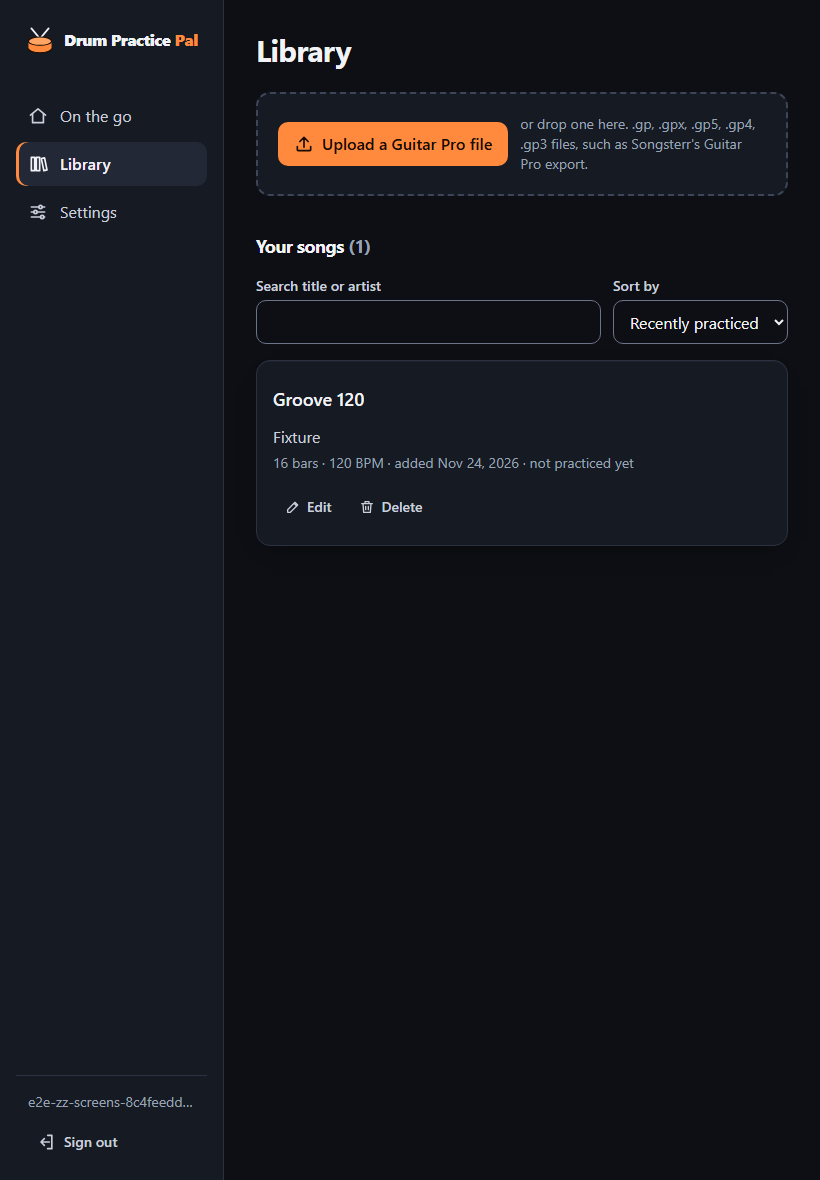
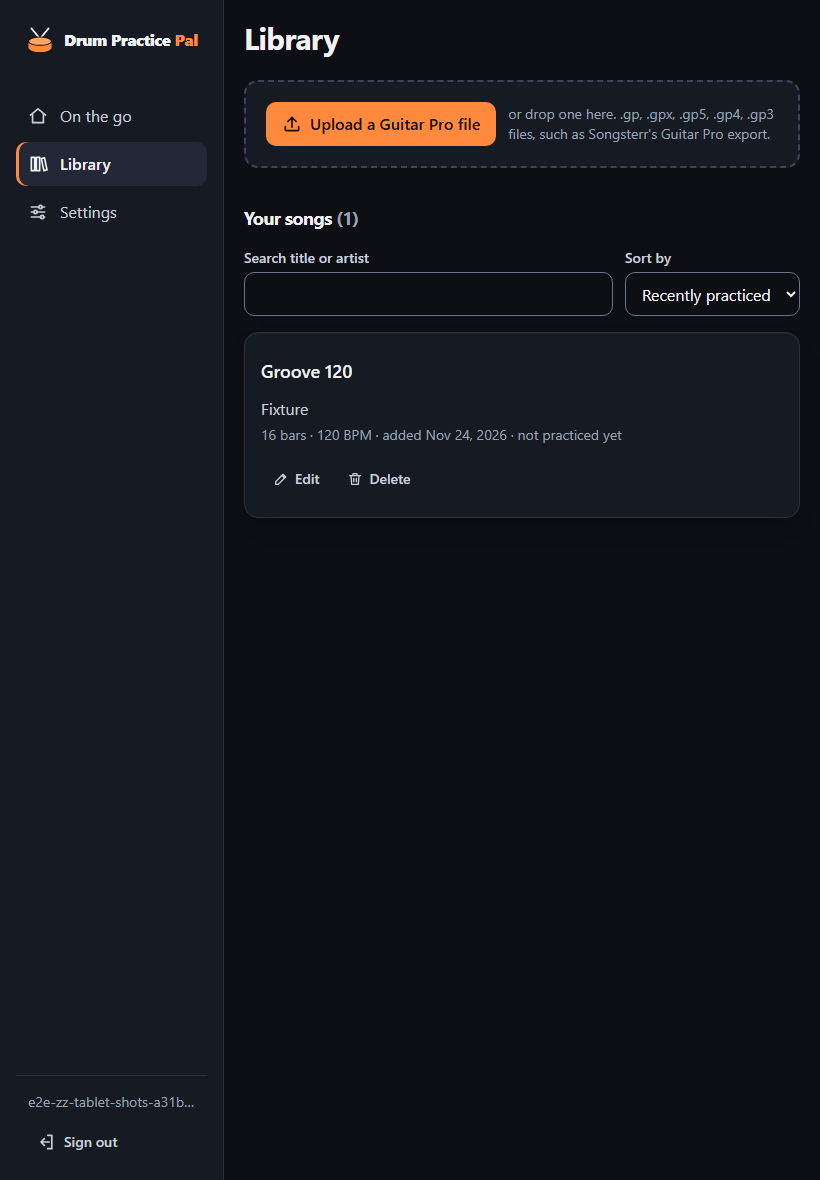
unit 12: narrower tablet gutter, two bars a line
The page's side gutter from md is the token --spacing-gutter: 1.25rem below
lg, 2rem from lg. At 820 px the score is 556 px wide, past alphaTab's 554 px
threshold for two bars a line (measured). The tablet sheet follows the token.

diff --git a/tests/e2e/loop-scroll.spec.ts b/tests/e2e/loop-scroll.spec.ts
@@ -448,13 +448,21 @@ test('with a count-in before every repeat, the score box is scrolled back at the
   page,
 }, testInfo) => {
   test.setTimeout(90_000);
-  const lastBar = { phone: 6, tablet: 12, desktop: 12 }[testInfo.project.name];
-  if (!lastBar) throw new Error(`No loop for project ${testInfo.project.name}`);
+  // A loop whose first bar the box leaves behind by its last. On a tablet in portrait, two
+  // bars a line, the whole song is barely taller than the box: only a loop from bar 2 to the
+  // end scrolls its first bar out.
+  const bars = {
+    phone: { firstBar: 5, lastBar: 6 },
+    tablet: { firstBar: 2, lastBar: 16 },
+    desktop: { firstBar: 5, lastBar: 12 },
+  }[testInfo.project.name];
+  if (!bars) throw new Error(`No loop for project ${testInfo.project.name}`);
+  const { firstBar, lastBar } = bars;
   await openFixture(page, user, 'groove-120', 'Groove 120');
   await countInSelect(page).selectOption('2 bars');
   await countInModeSelect(page).selectOption('Before every loop repeat');
   await speedSlider(page).fill('200');
-  await saveNewLoop(page, { name: 'Round', firstBar: 5, lastBar });
+  await saveNewLoop(page, { name: 'Round', firstBar, lastBar });
   if (expectedLoopPanel(page) === 'sheet') await closeLoopPanel(page);
   await recordStatuses(page);
   await playButton(page).click();
@@ -466,7 +474,9 @@ test('with a count-in before every repeat, the score box is scrolled back at the
   // The repeat's count-in (two seconds here) has the first bar back from its start: read ten
   // times over its first second, with the status and the boxes taken in the same instant, so
   // a scroll that only came once playback started again would not count.
-  await expect(status(page)).toHaveText('Bar 5 of 16 · Counting in…', { timeout: 10_000 });
+  await expect(status(page)).toHaveText(`Bar ${firstBar} of 16 · Counting in…`, {
+    timeout: 10_000,
+  });
   const reads: string[] = [];
   for (let read = 0; read < 10; read++) {
     reads.push(await loopStartDuringCountIn(page));

diff --git a/src/features/loops/LoopPanel.tsx b/src/features/loops/LoopPanel.tsx
@@ -101,9 +101,9 @@ export function LoopPanel({
       data-testid="loop-panel"
       // Phone: fixed just above the tab bar (3.5rem plus its border). Tablet in
       // portrait (md): no tab bar, so on the safe area, and as wide as the content
-      // column to the right of the sidebar (its 2rem padding each side), not under
+      // column to the right of the sidebar (the page's gutter each side), not under
       // it. From lg: a column beside the score that stays put while the page scrolls.
-      className={`fixed inset-x-0 bottom-[calc(3.5rem+1px+env(safe-area-inset-bottom))] z-10 rounded-t-card border-t border-line bg-surface shadow-sheet md:right-8 md:bottom-[env(safe-area-inset-bottom)] md:left-[calc(var(--spacing-sidebar)+2rem)] md:border-x lg:sticky lg:inset-x-auto lg:top-20 lg:bottom-auto lg:z-auto lg:max-h-[calc(100dvh-6rem)] lg:w-80 lg:shrink-0 lg:self-start lg:overflow-y-auto lg:rounded-card lg:border lg:shadow-card ${
+      className={`fixed inset-x-0 bottom-[calc(3.5rem+1px+env(safe-area-inset-bottom))] z-10 rounded-t-card border-t border-line bg-surface shadow-sheet md:right-gutter md:bottom-[env(safe-area-inset-bottom)] md:left-[calc(var(--spacing-sidebar)+var(--spacing-gutter))] md:border-x lg:sticky lg:inset-x-auto lg:top-20 lg:bottom-auto lg:z-auto lg:max-h-[calc(100dvh-6rem)] lg:w-80 lg:shrink-0 lg:self-start lg:overflow-y-auto lg:rounded-card lg:border lg:shadow-card ${
         open ? '' : 'lg:hidden'
       }`}
     >

diff --git a/tests/e2e/loops.spec.ts b/tests/e2e/loops.spec.ts
@@ -566,6 +566,21 @@ test('the loop panel is a bottom sheet on a phone and a tablet in portrait, and 
   }
 });
 
+test('on a tablet in portrait the score fits two bars a line', async ({ user, page }, testInfo) => {
+  test.skip(testInfo.project.name !== 'tablet', 'the gutter at md is what this measures');
+  await openFixture(page, user, 'groove-120', 'Groove 120');
+  // Bars 2 to 15: bar 1 has the clef, time and tempo and sits alone, as can the last bar.
+  await saveNewLoop(page, { name: 'Middle', firstBar: 2, lastBar: 15 });
+  await closeLoopPanel(page);
+  // One highlight block per line of music the loop touches: 14 bars, two a line.
+  await expect
+    .poll(async () => new Set((await highlightBoxes(page)).map((box) => Math.round(box.y))).size)
+    .toBe(7);
+  expect(await page.evaluate(() => document.documentElement.scrollWidth - window.innerWidth)).toBe(
+    0,
+  );
+});
+
 test('a loop across the tempo change opens on another device with BPM from its first bar, and keeps it past the change', async ({
   user,
   page,

diff --git a/src/index.css b/src/index.css
@@ -82,6 +82,13 @@
   --spacing-touch: 2.75rem;
   /* The sidebar's width from md; the tablet's loop sheet starts to the right of it. */
   --spacing-sidebar: 14rem;
+  /*
+   * The page's side gutter from md (below md it is p-4). 1.25rem on a tablet in
+   * portrait: at 820 px it leaves the score 556 px, and alphaTab puts two bars a
+   * line from 554 (measured; 2rem left 532, one bar a line). 2rem again from lg,
+   * below, where the score has room either way.
+   */
+  --spacing-gutter: 1.25rem;
 
   /* Radius and shadow. */
   --radius-control: 0.625rem;
@@ -109,6 +116,13 @@
     to {
       opacity: 1;
     }
+  }
+}
+
+/* The gutter's lg value: a token whose value follows the width, so its users need no lg: copy. */
+:root {
+  @variant lg {
+    --spacing-gutter: 2rem;
   }
 }
 

diff --git a/src/features/song/SongPage.tsx b/src/features/song/SongPage.tsx
@@ -423,7 +423,7 @@ function JamBar({
     <div
       ref={ref}
       data-testid="jam-bar"
-      className="sticky top-0 z-10 -mx-4 flex flex-wrap items-center justify-between gap-x-4 gap-y-2 border-b border-line bg-canvas px-4 pb-2 pt-[max(0.5rem,env(safe-area-inset-top))] md:-mx-8 md:px-8"
+      className="sticky top-0 z-10 -mx-4 flex flex-wrap items-center justify-between gap-x-4 gap-y-2 border-b border-line bg-canvas px-4 pb-2 pt-[max(0.5rem,env(safe-area-inset-top))] md:-mx-gutter md:px-gutter"
     >
       <JamReadout speedRatio={snapshot.speedRatio} tempo={tempo} />
       <PlayPauseButton player={player} snapshot={snapshot} />

diff --git a/src/features/shell/AppShell.tsx b/src/features/shell/AppShell.tsx
@@ -42,7 +42,7 @@ export function AppShell() {
 
       {/* Bottom padding keeps content clear of the fixed tab bar and the iOS home indicator.
           min-w-0 lets main shrink below a wide child (alphaTab's rendered score) when the window narrows. */}
-      <main className="mx-auto w-full min-w-0 max-w-5xl p-4 pb-[calc(5rem+env(safe-area-inset-bottom))] md:p-8">
+      <main className="mx-auto w-full min-w-0 max-w-5xl p-4 pb-[calc(5rem+env(safe-area-inset-bottom))] md:p-gutter">
         <OfflineBanner />
         <Outlet />
       </main>

diff --git a/AGENTS.md b/AGENTS.md
@@ -162,7 +162,7 @@ docs/
 - Never send alphaTab a tick outside its playback range: go through `seekToBar`, which picks the bar's playthrough inside the range (`startTickOfBarWithin` in `barTicks.ts`) or refuses. What the engine adds to the score element (the highlight layer) is taken away in `destroy()`, so a render that finishes late can't put it back.
 - Repeats: `tests/fixtures/gp/repeats.gp` plays bars 3 and 4 twice. `playedBars(score)` in `tests/unit/score-helpers.ts` gives a real score's bars in play order; `barsInPlayOrder([...])` and `finishLoading({ bars })` do the same for the fake engine. A range runs from the first playthrough of its start bar to the next time its end bar plays.
 - Engine DOM work: `createAlphaTabEngine` only wires things up. What listens to or draws on the score is a function of its own in `alphaTabEngine.ts` that takes the element and a `staffSystems()` getter for alphaTab's current bounds (`watchScorePointer`, `createHighlightLayer`, `scrollBoxToBar`); the maths stays in the pure modules. Add the next such piece the same way, not inline in the factory.
-- UI: `LoopPanel` is one component with one `open` state (`useLoopPanelOpen`). Where it goes is `loopPanelLayout.ts` (pure: `loopPanelKindForWidth`, `LOOP_COLUMN_MIN_WIDTH` 1024, `LOOP_COLUMN_QUERY`), which is the stylesheet's `lg` (`--breakpoint-lg` is written out in `index.css`, and `loopPanelLayout.test.ts` keeps the two equal): below `lg` (a phone, a tablet in portrait) a bottom sheet whose header is its one toggle, starting closed; from `lg` a column beside the score toggled by "Show loops" / "Hide loops" next to the status line (`max-lg:hidden`), starting open. It is a separate breakpoint from the player's page/horizontal layout (768 px, `md`): a tablet in portrait has page layout and the sheet. On a phone the sheet sits above the tab bar (`bottom-[calc(3.5rem+1px+env(safe-area-inset-bottom))]`, full width); from `md` there is no tab bar, so it sits on the safe area and spans the content column right of the sidebar (`left-[calc(var(--spacing-sidebar)+2rem)] right-8`, `--spacing-sidebar` being the sidebar's width), its body at most `min(40dvh,30rem)`. The score box's `scroll-mb` clears the sheet's header at each size. Below `lg` "Play loop" closes the sheet when the press starts playback (`playLoopClosesPanel`, `loopPanelIsSheet`), because the sheet lies over the score and the count-in number; it stays open when a loop is switched or restarted while playing. The page keeps `PlayerControls` above the two columns. Anything new that depends on the panel's kind asks `loopPanelIsSheet()` (code) or uses `lg:` (CSS), never `md:`; e2e asks `expectedLoopPanel(page)` in `loopsPage.ts`, not `expectedLayout`.
+- UI: `LoopPanel` is one component with one `open` state (`useLoopPanelOpen`). Where it goes is `loopPanelLayout.ts` (pure: `loopPanelKindForWidth`, `LOOP_COLUMN_MIN_WIDTH` 1024, `LOOP_COLUMN_QUERY`), which is the stylesheet's `lg` (`--breakpoint-lg` is written out in `index.css`, and `loopPanelLayout.test.ts` keeps the two equal): below `lg` (a phone, a tablet in portrait) a bottom sheet whose header is its one toggle, starting closed; from `lg` a column beside the score toggled by "Show loops" / "Hide loops" next to the status line (`max-lg:hidden`), starting open. It is a separate breakpoint from the player's page/horizontal layout (768 px, `md`): a tablet in portrait has page layout and the sheet. On a phone the sheet sits above the tab bar (`bottom-[calc(3.5rem+1px+env(safe-area-inset-bottom))]`, full width); from `md` there is no tab bar, so it sits on the safe area and spans the content column right of the sidebar (`left-[calc(var(--spacing-sidebar)+var(--spacing-gutter))] right-gutter`, `--spacing-sidebar` being the sidebar's width and `--spacing-gutter` the page's side gutter), its body at most `min(40dvh,30rem)`. The score box's `scroll-mb` clears the sheet's header at each size. Below `lg` "Play loop" closes the sheet when the press starts playback (`playLoopClosesPanel`, `loopPanelIsSheet`), because the sheet lies over the score and the count-in number; it stays open when a loop is switched or restarted while playing. The page keeps `PlayerControls` above the two columns. Anything new that depends on the panel's kind asks `loopPanelIsSheet()` (code) or uses `lg:` (CSS), never `md:`; e2e asks `expectedLoopPanel(page)` in `loopsPage.ts`, not `expectedLayout`.
 - Tests: saved loops come from `src/test/loopTable.ts`: `loopRow(id, overrides)`, and an in-memory loops table that answers like PostgREST (`sent('update')` for payloads, `failNext` / `holdNext` for failed and pending writes, `setRows` for another device). `serveLoopTable(rows)` puts it behind `queryResult` for a test that queries only loops; a test that serves other tables too builds `loopTable(rows)` and hands it the loops calls (`loops.answer(call)`, as `SongPage.test.tsx` does). The player comes from `src/test/loopPlayer.ts`: `loopPlayer()` (a real `PlayerService` over `FakePlayerEngine`, 16 bars with the tempo-change tempos) and `usePlayerSnapshot(player)` for a harness component. Ticks are `startOfBar(barNumber)` from `fakePlayerEngine.ts`, not a local helper. `alphaTabEngine.pointer.test.ts` shows how to test engine code in jsdom: `vi.mock('@coderline/alphatab')` with a stub `AlphaTabApi` that only has `boundsLookup` and the render events, and pointer events built from `MouseEvent` (jsdom has no `PointerEvent`). jsdom lays nothing out, so its `setup` gives the scroll box a size with `placeBox`.
 - A later stage's cases go into the subject's existing test file and describes (`PlayerService.showBar.test.ts`, `PlayerService.seekGuard.test.ts`, `barScroll.test.ts`), after checking its tables for the case; a second file beside it (`*.edges.test.ts`) is only for something as large as the count-in tables. Steps a test file repeats (press a named button, refetch, type a new loop) are helpers on its `render…` view, as in `LoopPanel.test.tsx`.
 - e2e: `tests/e2e/loopsPage.ts` has the panel's locators and steps (`openLoopPanel` / `closeLoopPanel` and `loopPanelToggle(page)`, whose `aria-expanded` says whether the panel is open, work at every size; `saveNewLoop(page, { name, firstBar, lastBar, target })`, `highlightBoxes`, `commit` for the speed fields, which take Enter). Call `openLoopPanel` again after a "Play loop" before using the panel's speed fields: below 1024 px the sheet has closed. `playerPage.ts` now also has `tapAndWaitForBar`, `nextBarPoint`, `cursorBarPoint`, `scrollScoreToCursor` (scrolls only the score box), the box tests `contains` / `overlaps`, `countInSelect` / `countInModeSelect`, and `recordStatuses` / `recordedStatuses` (every status the player goes through, for "playback never stopped"). Specs find a bar on screen from alphaTab's cursor: wait for the cursor itself to move, not only the status line, and don't open or close the side panel between measuring a point and using it (the score lays out again). `openFixture`, `nextBarPoint` and `cursorBarPoint` first wait for `scoreSettled(page)` (window, score box and bar cursor still): alphaTab scrolls the box to its cursor at about the moment Play is enabled, and a point measured before that lands on the bar before. A point picked anywhere but from the cursor must be on a line's staves, not in the gap under them, which seeks to the line above (`staffLineAt` in `jam.spec.ts`).
@@ -230,7 +230,7 @@ docs/
 
 ## Visual design (from Unit 12)
 
-- Design tokens are the `@theme static` block in `src/index.css`, and they are the only colours: Tailwind's palette is off (`--color-*: initial`), so `text-sky-400` draws nothing. Colours are semantic and hex: surfaces `canvas` < `surface` < `raised` (`raised-hover`), `scrim`; lines `line`, `line-strong`, `field-line` (an input's edge, 3:1); text `ink`, `ink-soft`, `ink-muted`; `brand` (`brand-hover`, `brand-soft`, `brand-line`, `on-brand` for text on a brand fill); `focus`; `danger` (`danger-solid`, `danger-solid-hover`, `danger-soft`, `on-danger`), `warning` (`-soft`, `-line`), `success` (`-soft`, `-line`); the score's `score-paper`, `score-ink`, `score-muted`, `score-accent`. Also `text-readout`, `text-count-in`, `min-h-touch` (44 px), `rounded-control` / `rounded-card`, `shadow-card` / `shadow-sheet` / `shadow-dialog`, `animate-beat` / `animate-fade-in`. Use opacity modifiers on tokens (`bg-scrim/80`) rather than new near-duplicates.
+- Design tokens are the `@theme static` block in `src/index.css`, and they are the only colours: Tailwind's palette is off (`--color-*: initial`), so `text-sky-400` draws nothing. Colours are semantic and hex: surfaces `canvas` < `surface` < `raised` (`raised-hover`), `scrim`; lines `line`, `line-strong`, `field-line` (an input's edge, 3:1); text `ink`, `ink-soft`, `ink-muted`; `brand` (`brand-hover`, `brand-soft`, `brand-line`, `on-brand` for text on a brand fill); `focus`; `danger` (`danger-solid`, `danger-solid-hover`, `danger-soft`, `on-danger`), `warning` (`-soft`, `-line`), `success` (`-soft`, `-line`); the score's `score-paper`, `score-ink`, `score-muted`, `score-accent`. Also `text-readout`, `text-count-in`, `min-h-touch` (44 px), `w-sidebar` and the page gutter `p-gutter` (1.25rem from `md`, 2rem from `lg`: the token's value follows the width through `@variant lg` on `:root` in `index.css`, so users write `md:p-gutter` once; it is 1.25rem so an 820 px tablet in portrait gets two bars a line, which `loops.spec.ts` checks), `rounded-control` / `rounded-card`, `shadow-card` / `shadow-sheet` / `shadow-dialog`, `animate-beat` / `animate-fade-in`. Use opacity modifiers on tokens (`bg-scrim/80`) rather than new near-duplicates.
 - `tests/unit/designTokens.test.ts` fails on a palette class, an arbitrary colour (`bg-[#…]`), a hex string in `src/` (outside `scoreTheme.ts` and tests), or a colour utility naming no token. It also checks WCAG contrast for every text-on-surface pair the screens draw (4.5:1) and for control parts (3:1): when a screen puts text on a new surface, add the pair to `TEXT_PAIRS` there. A new token goes in `index.css` with its pairs; a value that must live outside CSS (alphaTab's colours in `scoreTheme.ts`, the manifest's `theme_color`, `index.html`'s `theme-color`) is a copy the same test keeps equal. Contrast maths is `src/lib/themeTokens.ts`.
 - Class strings come from `src/components/styles.ts`: `buttonClass`, `pressedButtonClass` (a toggle that is on: fill and a brand ring), `primaryButtonClass` (one per area), `ghostButtonClass`, `quietButtonClass` / `quietPressedButtonClass` (a list item's secondary actions), `toolButtonClass(pressed)` (the controls bar's tiles), `segmentOnClass` / `segmentOffClass` (views of one list), `dangerButtonClass`, `dangerPanelClass` (a destructive confirm or an error inside a card or form) / `dangerCardClass` (an error that is a card of its own), `inputClass`, `selectClass`, `cardClass`, `activeCardClass`, `linkClass`, `labelClass`, `sectionHeadingClass` (an h2 or a legend in a page), `inlineIconClass`, `focusRing`. A class string that a second component needs moves there (from 12 Readability); one used twice in a file is a local constant beside its components (`controlLabelClass` in `PlayerControls.tsx`). The token test reads comments too, so a comment naming a utility-like word (`stroke-width`) fails "only tokens". Buttons are `inline-flex` (icon beside label): one shown only from 768 px takes `max-md:hidden`, never `hidden md:inline-flex`.
 - User text (a song's title, a loop's name) can be one unbroken word of the longest length the database takes. In a flex or grid item, or in a paragraph that is a flex container (an icon beside the name), it takes `wrap-anywhere`, not `break-words`: only `anywhere` lowers the item's min-content width, so the item can get narrower than the word (`SongListItem`, `LoopPanel`'s `LoopItem`). A line that must stay one line truncates (`truncate` on a flex item, `line-clamp-*` with `min-w-0`) and keeps the whole name in `title` or the accessible name. `design.spec.ts` "a long unbroken loop name" checks it.

diff --git a/docs/units/12-visual-design.md b/docs/units/12-visual-design.md
@@ -372,3 +372,14 @@ None added. `loopPanelIsSheet()` is read at the press (as before), so a rotation
 
 - `npm run check`: 103 files, 4077 tests green.
 - `npm run e2e`: 385 passed, 20 skipped, 0 failed (405 listed), on a fresh `npm run build -- --mode development` run from bash. The `vite preview` on 4173 (PID 56088, not ours) was left running; the page it served loaded `assets/index-CMcgEGtQ.js` and `assets/index-DEwLMAEV.css`, the files in the fresh `dist`, and its CSS had the new `--spacing-sidebar` rules.
+
+### Narrower tablet gutter (follow-up)
+
+Shane said yes to narrowing the gutter so an 820 px tablet in portrait fits two bars a line.
+
+- **Gutter:** the main column's side padding from `md` was `md:p-8` (2rem, 32 px). It is now the token `--spacing-gutter`: 1.25rem (20 px) from `md` to 1023 px, 2rem again from `lg` (`@variant lg` on `:root` in `index.css`), so laptops and tablet landscape are unchanged. `AppShell`'s `main` uses `md:p-gutter`, the jam bar's full-bleed `md:-mx-gutter md:px-gutter`, and the tablet sheet `md:right-gutter md:left-[calc(var(--spacing-sidebar)+var(--spacing-gutter))]`, so the sheet's edges still line up with the score and the sidebar offset is unchanged (`loops.spec.ts`'s panel test checks both).
+- **Why 1.25rem, measured in the browser** (Playwright at 820 x 1180, main padding overridden at runtime, alphaTab's systems counted from a loop's highlight blocks, one per line): score 532 px (2rem) one bar a line; 548 (1.5rem), 550, 552 one a line; 554 (1.3125rem) and 556 (1.25rem) two a line. alphaTab's threshold is 554 px, so 1.25rem, the nearest spacing step, is the smallest that works, with 2 px to spare: a 810 px iPad would still get one bar a line (1rem would leave 10 px to spare and still not reach 810).
+- **Bars per line on the built app** (all 16 bars as a loop): 768 px, score 504, one bar a line (16 lines); 820 px, score 556, two a line (9 lines: bar 1, with clef, time and tempo, alone on the first, bar 16 alone on the last); 1023 px, score 759, two a line (8 lines). No sideways page scroll at 768, 820, 1023, 1180 or 1440.
+- **Tests:** new `loops.spec.ts` "on a tablet in portrait the score fits two bars a line" (tablet project; a loop over bars 2 to 15 has 7 lines, and the page doesn't scroll sideways). `loop-scroll.spec.ts` "the score box is scrolled back at the wrap" used bars 5 to 12 on the tablet, which now fit the box whole, so the first bar never left it; on the tablet it is now bars 2 to 16, the only loop whose first bar the box leaves behind.
+- **Screenshots retaken:** `final-tablet-02-library.png`, `-04-song-loop.png`, `-05-song-playing.png`, `-07-home.png`, `-08-settings.png`.
+- **Results:** `npm run check` 103 files, 4077 tests green. `npm run e2e` 386 passed, 22 skipped, 0 failed (408 listed; `design.spec.ts`'s audits included: targets, contrast, focus rings, overflow), on a fresh `npm run build -- --mode development` from bash; the `vite preview` on 4173 (PID 56088, not ours) served `assets/index-CY0fJJCy.js` and `assets/index-B7uex7Zb.css`, the fresh `dist`'s files.
